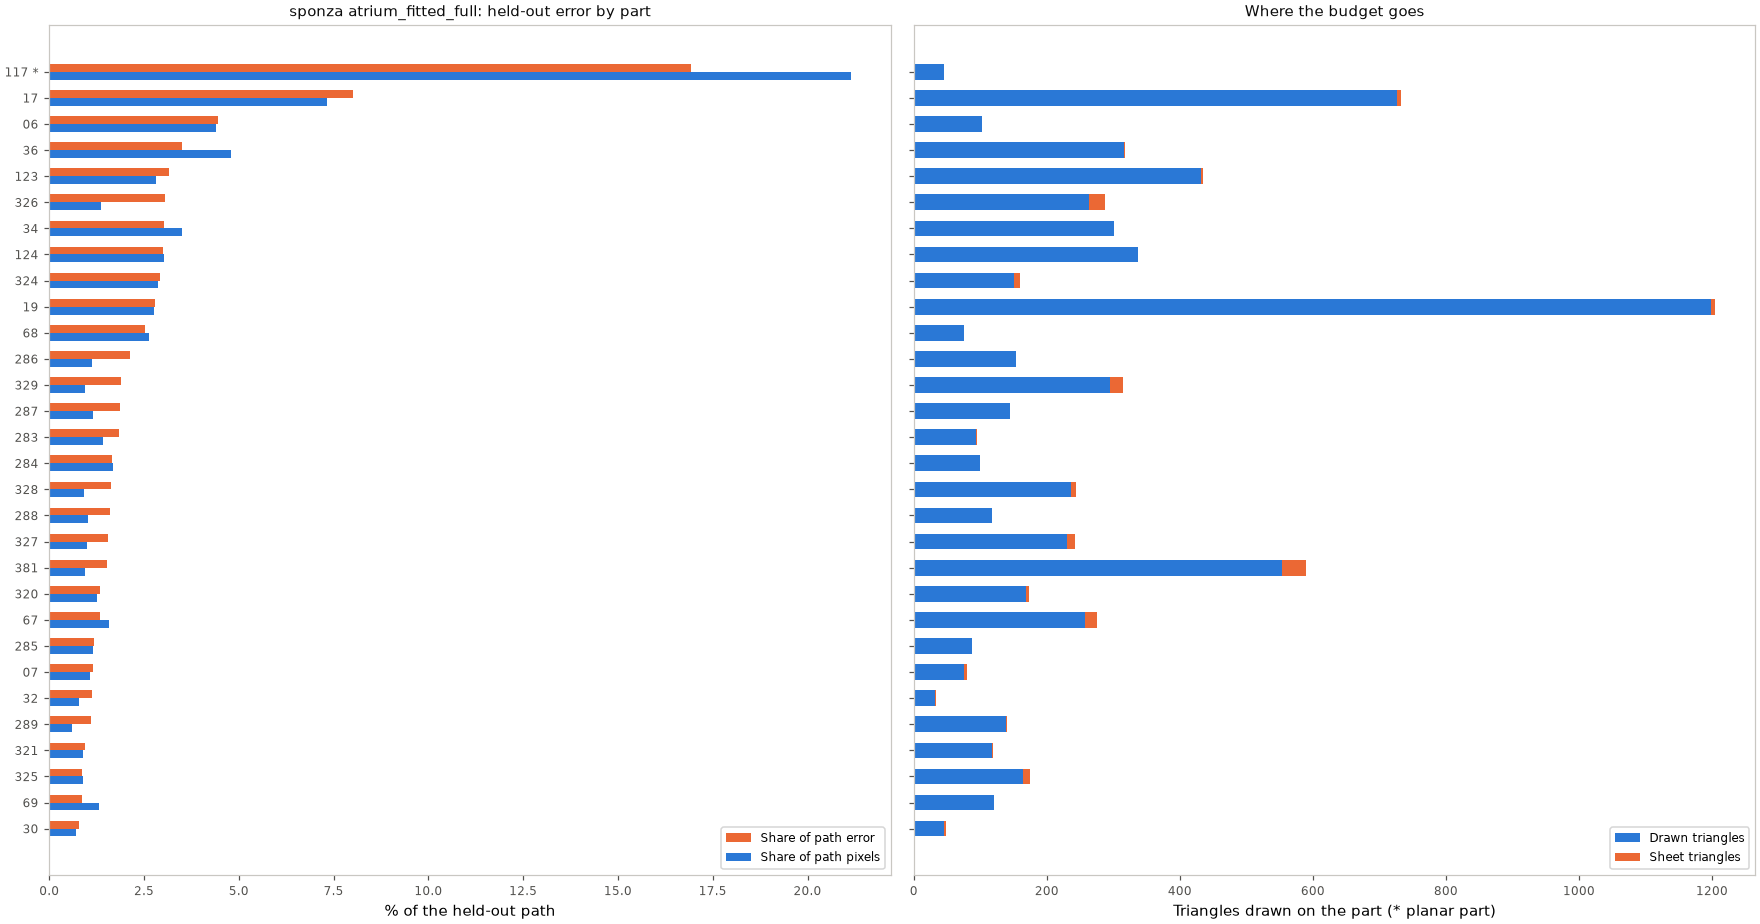
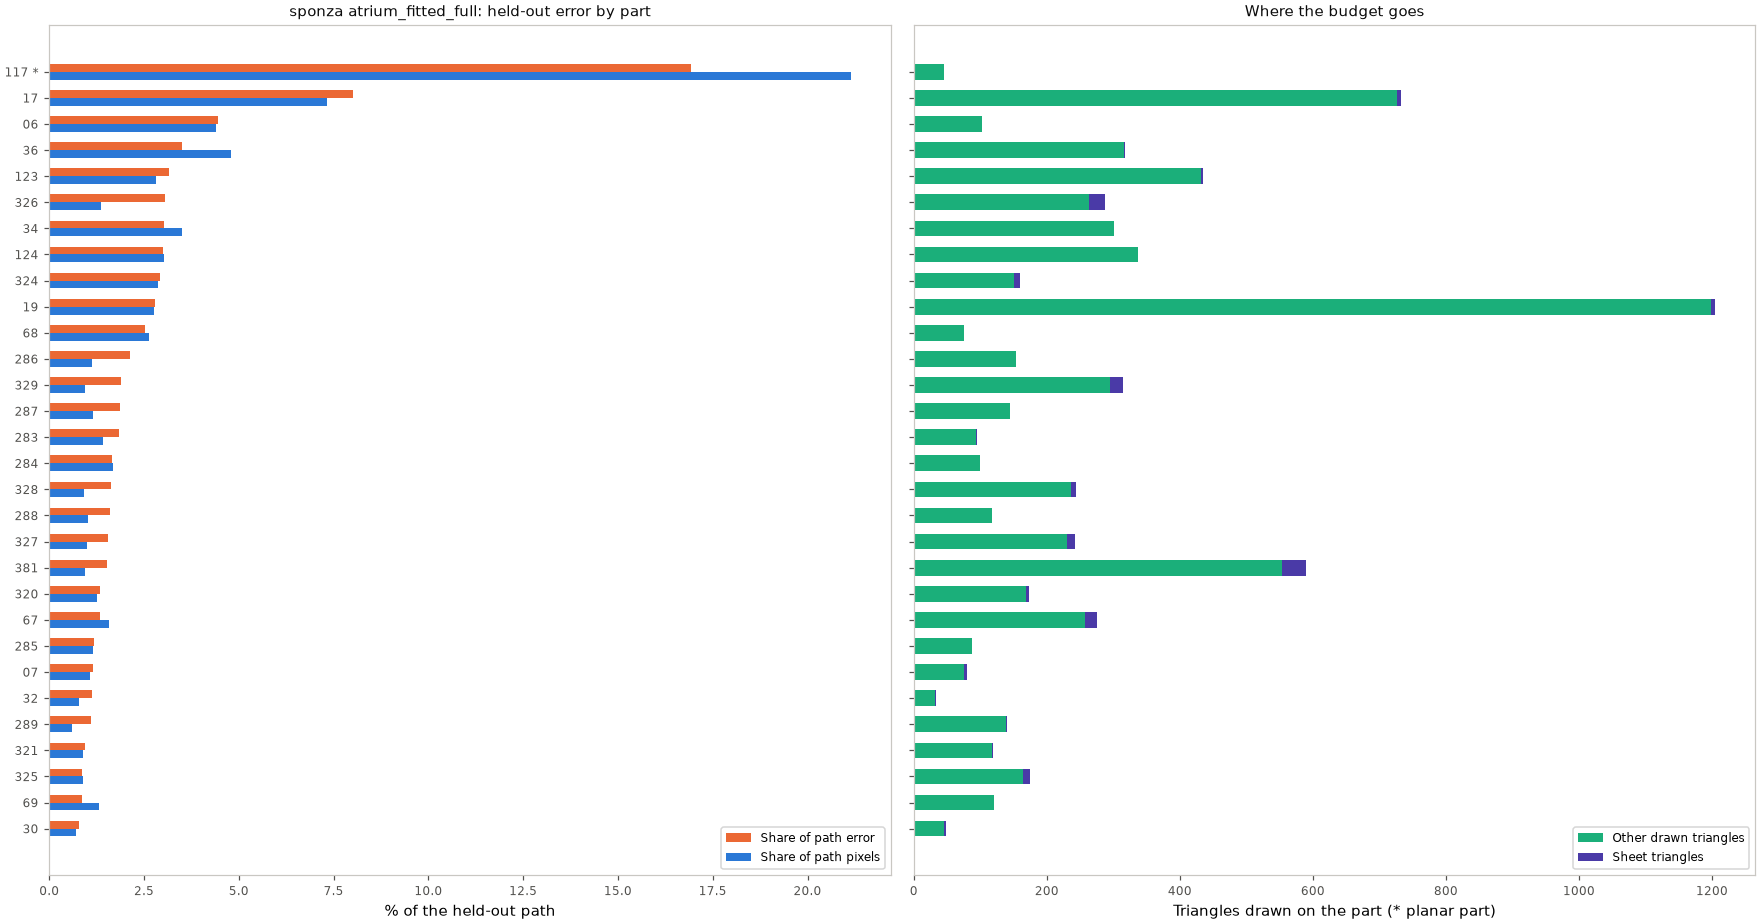
object_error: the triangle panel takes its own colours and names its bar Other drawn triangles; Appearance-Fit states the tie and that the costliest parts carry almost no sheets (autana-cqk1e)

Changed region(s): [[0.5, 0.0606, 0.9688, 0.9091], [0.875, 0.8788, 1.0, 0.9394]]

diff --git a/launcher/tools/r3d/objects/object_error.py b/launcher/tools/r3d/objects/object_error.py
@@ -330,8 +330,8 @@ def figure(rows, path, title, top=FIGURE_ROWS):
     plot_style.style_axes(ax, title)
     sheets = np.array([row["sheet_triangles"] for row in shown])
     rest = np.array([row["drawn_triangles"] for row in shown]) - sheets
-    drawn.barh(index, rest, plot_style.BAR_HEIGHT, color=plot_style.SLOTS[0], label="Drawn triangles")
-    drawn.barh(index, sheets, plot_style.BAR_HEIGHT, left=rest, color=plot_style.SLOTS[1], label="Sheet triangles")
+    drawn.barh(index, rest, plot_style.BAR_HEIGHT, color=plot_style.SLOTS[2], label="Other drawn triangles")
+    drawn.barh(index, sheets, plot_style.BAR_HEIGHT, left=rest, color=plot_style.SLOTS[6], label="Sheet triangles")
     drawn.set_yticks(index, [""] * len(shown))
     drawn.invert_yaxis()
     drawn.set(xlabel="Triangles drawn on the part (* planar part)", xlim=(0, None))

diff --git a/docs/render/offline/Appearance-Fit.md b/docs/render/offline/Appearance-Fit.md
@@ -267,8 +267,8 @@ copies, and the copy check refused it.
 On the held-out frames, the a-trous fit softens shadows inside a surface in Sponza. In Bistro it grows sheets
 across the awning and the frame-18 wall. The arms' code is in commit `ee94701d6`, which makes those sheets again.
 
-The locked fit's counters show where the budget goes instead. The flat cobbled street parts (starred: planar)
-take 278 and 146 drawn triangles, the two most of any part, and none of them is a sheet.
+The locked fit's counters show where the budget goes. The flat cobbled street parts (starred: planar) take 278
+and 146 drawn triangles, the most and tied second of any part. The costliest parts carry almost no sheets.
 
 ![Bistro held-out error by part, with each part's drawn and sheet triangles](../../images/render/bistro-street-fitted-full-object-error.png)
 
